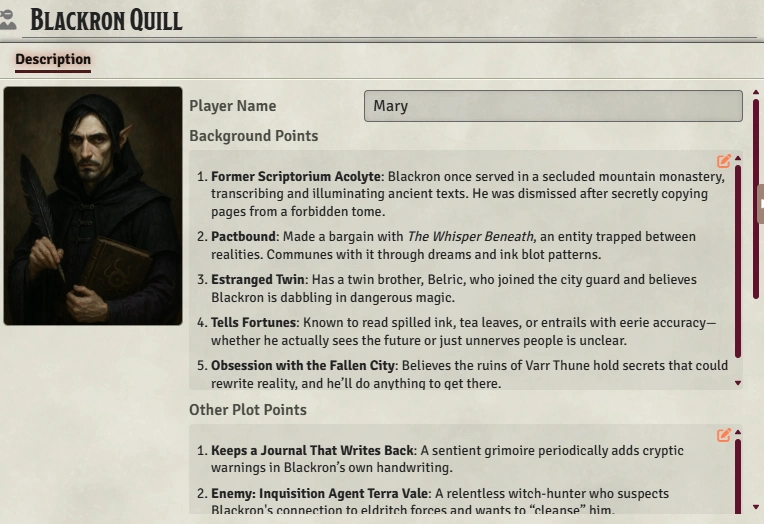
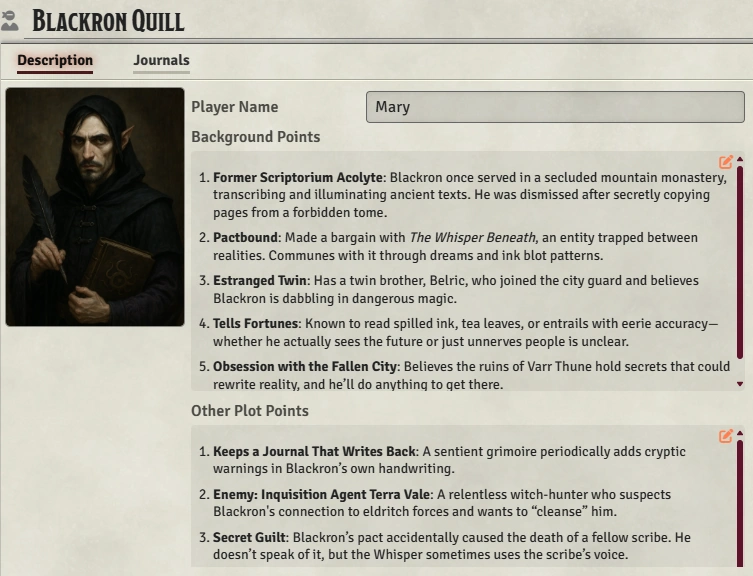
strong start and other docs update

Changed region(s): [[0.0, 0.0, 1.0, 1.0], [0.9163, 0.7328, 1.0, 1.0], [0.1222, 0.3969, 0.1527, 0.4275]]

diff --git a/docs/.vitepress/config.ts b/docs/.vitepress/config.ts
@@ -75,6 +75,7 @@ export default defineConfig({
           ]},
           { text: 'Campaign Management', link: '/reference/campaign-mgt/', items: [
             { text: 'Campaigns', link: '/reference/campaign-mgt/content/campaign/' },
+            { text: 'PCs', link: '/reference/campaign-mgt/content/pc' },
             { text: 'Sessions', link: '/reference/campaign-mgt/content/session/' },
             { text: 'To-do List', link: '/reference/campaign-mgt/content/campaign/todos' },
           ] },

diff --git a/src/components/ContentTab/SettingContent.vue b/src/components/ContentTab/SettingContent.vue
@@ -133,7 +133,7 @@
   const name = ref<string>('');
 
   const contentRef = ref<HTMLElement | null>(null);
-  const icon =  getTabTypeIcon(WindowTabType.Campaign);
+  const icon =  getTabTypeIcon(WindowTabType.Setting);
   const showConfigureNamesDialog = ref<boolean>(false);
 
   ////////////////////////////////

diff --git a/docs/reference/navigation/editors.md b/docs/reference/navigation/editors.md
@@ -1,0 +1,36 @@
+---
+title: Editors
+prev: 
+  text: 'Directory Sidebar'
+  link: './sidebar'
+next: 
+  text: 'Main Content Display'
+  link: './main-display'
+---
+
+# Editors
+
+Click the orange pencil to start editing, and the save button (or Control-S) to save.
+
+Every Editor in Campaign Builder has the same basic functionality, which includes the normal formatting options as other Foundry editors, as well as some additional capabilities:
+
+## Autocomplete Mentions {#autocomplete-mentions}
+There is a separate module - [Autocomplete Mentions](https://github.com/dovrosenberg/fvtt-autocomplete-mentions) that is not needed but can be highly useful for campaign and world building.  It enables you to type '@' and easily search for the characters, locations, and organizations in your campaign and then insert them as a link in any editor field.  
+
+This can be doubly helpful in Campaign Builder because of the [auto-suggest capabilities](#auto-suggest) of the Campaign Builder editors.
+
+## Drag and Drop
+
+You can drag any [^Entry], [^Campaign], or [^Session], from the [Setting Directory] into the description editor, and it will insert a UUID indicator that when you save will be displayed as a clickable link that will open that Entry *(hold 'Control' while clicking to open it in a new tab)*.  Similarly, you can drag any Foundry document (ex. Actors, Journal Entries, etc.) into the description editor for a link to that document (the same way you can in other Foundry editors).
+
+## Automatic references
+
+When you save an editor, if you have exactly (but case insensitive) used the name of any [^Entry], [^PC], or [^Session], it will automatically turn it into a reference link.  
+
+> [!Note]
+> If you have more than one Entry, PC, and/or Session with the same name, it will not create a link, so that it's not linking to the wrong one.  Instead, use Drag & Drop or Autocomplete Mentions to insert a reference to the one you want.  This is likely to be a very rare situation, though.
+
+
+## Auto-suggest relationships
+
+If you insert a reference to an [^Entry] into the description of another, you will [automatically be asked](/reference/world-building/content/entry/description#managing-relationships) if you'd like to create a relationship.  This allows you to connect two entries or to mention an entry in a session note (which will then also add it to the campaign [To-do list](/reference/campaign-mgt/content/campaign/todos)) with just a couple keystrokes.

diff --git a/docs/reference/world-building/content/setting/index.md b/docs/reference/world-building/content/setting/index.md
@@ -17,29 +17,7 @@ The Setting header has just two parts:
   1. Name - This is where you edit the Setting's name.
   2. Generate Button - This gives access to Setting-specific configuration, specifically [Name Styles](./namestyles).
 
-## Setting description tab
-The description tab has four components:
-1. Image
-2. Genre
-3. Setting Feeling
-4. Description text area
-
-### Image
-See [Image] documentation.
-
-### Genre
-The Genre is where you capture the high-level type of your Setting.  Typical examples would be "Fantasy" or "Sci-Fi".  These are used for [Advanced Features] to ensure generated content fits your theme.
-
-### Setting Feeling
-Similar to Genre, this field allows you to give a more detailed description.  For example, "A dark and rugged world where only the strong survive" or "A light, playful world with humor around every corner". This description is used for [Advanced Features] to further refine generated content.
-
-### Description text area
-This is where you can provide a detailed description of the Setting and high-level lore.  What's the history? What does the pantheon look like? How many explored planetary systems are there? 
-
-Click the orange pencil to start editing, and the save button (or Control-S) to save.
-
-You can drag any Entry from the [Setting Directory] into the description editor, and it will insert a UUID indicator that when you save will be displayed as a clickable link that will open that Entry (hold 'Control' while clicking to open it in a new tab).
-
-It is highly suggested that you check out the [Autocomplete Mentions](/reference/navigation/main-display#autocomplete-mentions) module, which allows you to rapidly reference Foundry documents and Campaign Builder Entries/Sessions/etc. while typing in the editor.  
-
-In the future, this description may be made available to players as starting background, but for now it's just for GM use (along with everything else in the module, just to be clear).
+## Tabs
+There are two tabs on the Setting details screen:
+  1. [Description tab](./description) - overview information about the Setting
+  2. [Journals tab](./journals) - a place to track Foundry journal entries that relate to the Setting.  Good for tracking extra images or any other content that you want to keep track of and/or share with the player(s)

diff --git a/docs/reference/campaign-mgt/content/pc/index.md b/docs/reference/campaign-mgt/content/pc/index.md
@@ -1,29 +1,28 @@
 ---
 title: PC Details
 prev: 
-  text: 'Session Details'
-  link: '/reference/campaign-mgt/content/session'
+  text: 
+  link: 
 next: 
-  text: 'Advanced Features & Backend'
-  link: '/reference/backend'
+  text: 'PC Description Tab'
+  link: '/reference/campaign-mgt/content/pc/description'
 ---
-# PC Details
+# PC Details 
 
 ![PC content](/assets/images/pc-content.webp)
 
 The PC window lets you manage a player character.
 
-## PC Actors
+## PC Actor
 
 To be useful, a PC needs to be associated with an actor.  You do this by dragging a Foundry actor (ex. from the sidebar) and dropping it on the image area.
 
 You can change the actor by dragging a new one onto the image area.
 
-The name and image of the PC are determined from the actor and updates to those should show on the PC.
+> [!Note]
+> The name and image of the PC are determined from the actor and updates to those should show on the PC.  You cannot independently change the name/image of the PC.
 
-## Description
-The description section has the following fields:
-* Name
-* Background Points - good for keeping track of key background on the character you want to review before each session (as opposed to more detailed bios that may exist on the character sheet)
-* Other Plot Points - this is where you can track background items that will make for good plot hooks (ex. an enemy)
-* Desired Magic Items - keep a list of ideas for future magic items you might want to give the character
+## Tabs
+PCs have the following tabs where you can manage their details:
+* [Description](./description) - the key info about the PC
+* [Journals](/journals) - a place to track Foundry journal entries that relate to the PC.  Good for tracking extra images or any other content that you want to keep track of and/or share with the player(s)

diff --git a/docs/reference/campaign-mgt/content/session/notes.md b/docs/reference/campaign-mgt/content/session/notes.md
@@ -14,7 +14,8 @@ The notes tab has four main components:
 1. Image
 2. Session number
 3. Session date
-4. Session notes area
+4. Strong start
+5. Session notes area
 
 ## Image
 See [Image] documentation.
@@ -30,12 +31,12 @@ The session date is the date of the session.  It is only used for your reference
 ## Strong start { #start }
 This is where you enter your "Strong Start", fleshing out how you intend to begin the session.  This text is only used for your reference.
 
+See [Editors] for more info on capabilities of Editor boxes.
+
 ## Session notes area
-This is where you enter the Session notes. Click the orange pencil to start editing, and the save button (or Control-S) to save.
+This is where you enter the Session notes. 
 
-You can drag any Entry from the [Setting Directory] into the notes editor and it will insert a UUID indicator that when you save will be displayed as a clickable link that will open that Entry (hold 'Control' while clicking to open it in a new tab).
-
-It is highly suggested that you check out the [Autocomplete Mentions](/reference/navigation/main-display#autocomplete-mentions) module, which allows you to rapidly reference Foundry documents and Campaign Builder Entries/Sessions/etc. while typing in the editor.  
+See [Editors] for more info on capabilities of Editor boxes.
 
 When you save the notes while in [^Play Mode], it will check to see if you've added any references to Entries.  If you have, those Entries will automatically be added to the [To-do list](/reference/campaign-mgt/content/campaign/todos) for the Campaign.  
 

diff --git a/docs/reference/navigation/main-display.md b/docs/reference/navigation/main-display.md
@@ -1,8 +1,8 @@
 ---
 title: Main Display
 prev: 
-  text: 'Directory Sidebar'
-  link: './sidebar'
+  text: 'Editors'
+  link: './editors'
 next: 
   text: 'Main Tabs'
   link: './tabs'
@@ -19,8 +19,8 @@ There are 4 types of content you can see, and each has its own set of functional
 - [Sessions](/reference/campaign-mgt/content/session/)
 
 
-## Autocomplete Mentions {#autocomplete-mentions}
-There is a separate module - [Autocomplete Mentions](https://github.com/dovrosenberg/fvtt-autocomplete-mentions) that is not needed but can be highly useful for campaign and world building.  It enables you to type '@' and easily search for the characters, locations, and organizations in your campaign and then insert them as a link in any editor field.  This can be doubly helpful, because (for example) if you insert one of these links in the description of an [^Entry], you will [automatically be asked](/reference/world-building/content/entry/description#managing-relationships) if you'd like to create a relationship.  So this allows you to connect two entries or mention an entry in a session note (which will then also add it to the campaign [To-do list](/reference/campaign-mgt/content/campaign/todos)) with just a couple keystrokes.
+## Editors
+Throughout the application, there are fields that are displayed as a large Foundry editor box.  In addition to Foundry capabilities (ex. formatting), Campaign Builder editors have additional capabilities. See [Editors] for more information.
 
 ## Images {#images}
 

diff --git a/docs/reference/campaign-mgt/content/campaign/description.md b/docs/reference/campaign-mgt/content/campaign/description.md
@@ -4,8 +4,8 @@ prev:
   text: 'Campaign Details'
   link: '/reference/campaign-mgt/content/campaign'
 next: 
-  text: 'Campaign PCs Tab'
-  link: '/reference/campaign-mgt/content/campaign/pcs'
+  text: 'Campaign Journals Tab'
+  link: '/reference/campaign-mgt/content/campaign/journals'
 ---
 # Campaign Description Tab
 ![Description tab](/assets/images/campaign-content.webp)
@@ -25,11 +25,7 @@ A place where you can enter the main description of your campaign. This might in
 - Important background information
 - Current campaign status
 
-Click the orange pencil to start editing, and the save button (or Control-S) to save.
-
-You can drag any [^Entry] from the [Setting Directory] into the description editor, and it will insert a UUID indicator that when you save will be displayed as a clickable link that will open that Entry (hold 'Control' while clicking to open it in a new tab).
-
-It is highly suggested that you check out the [Autocomplete Mentions](/reference/navigation/main-display#autocomplete-mentions) module, which allows you to rapidly reference Foundry documents and Campaign Builder Entries/Sessions/etc. while typing in the editor.  
+See [Editors] for more info on capabilities of Editor boxes.
 
 ## House Rules
 A separate field specifically for documenting any house rules or modifications you're using in this campaign. This keeps rule variations clearly separated from the main campaign description.  

diff --git a/docs/reference/world-building/content/setting/description.md b/docs/reference/world-building/content/setting/description.md
@@ -1,0 +1,33 @@
+---
+title: Setting Description Tab
+prev: 
+  text: 'Name styles'
+  link: './namestyles'
+next: 
+  text: 'Setting journals tab'
+  link: './journals'
+---
+# Setting Description Tab
+![Setting content](/assets/images/setting-content.webp)
+
+The description tab has four main components:
+1. Image
+2. Genre
+3. Setting Feeling
+4. Description text area
+
+## Image
+See [Image] documentation.
+
+## Genre
+The Genre is where you capture the high-level type of your Setting.  Typical examples would be "Fantasy" or "Sci-Fi".  These are used for [Advanced Features] to ensure generated content fits your theme.
+
+## Setting Feeling
+Similar to Genre, this field allows you to give a more detailed description.  For example, "A dark and rugged world where only the strong survive" or "A light, playful world with humor around every corner". This description is used for [Advanced Features] to further refine generated content.
+
+## Description text area
+This is where you can provide a detailed description of the Setting and high-level lore.  What's the history? What does the pantheon look like? How many explored planetary systems are there? 
+
+See [Editors] for more info on capabilities of Editor boxes.
+
+In the future, this description may be made available to players as starting background, but for now it's just for GM use (along with everything else in the module, just to be clear).

diff --git a/docs/reference/campaign-mgt/content/campaign/journals.md b/docs/reference/campaign-mgt/content/campaign/journals.md
@@ -1,0 +1,26 @@
+---
+title: Campaign Journals Tab
+prev: 
+  text: 'Campaign description tab'
+  link: '/reference/campaign-mgt/content/campaign/description'
+next: 
+  text: 'Campaign PCs Tab'
+  link: '/reference/campaign-mgt/content/campaign/pcs'
+---
+# Entry Journals Tab
+
+![Entry Journals Tab](/assets/images/entry-journals-tab.webp)
+
+The Journals tab allows you to associate any number of Foundry journal entries with the Entry.  This is useful for tracking extra images or any other content that you want to keep track of and/or share with the player(s).
+
+> [!NOTE]
+> Deleting a journal entry in Foundry that is attached to an Entry will automatically and safely remove it from the Entry.
+
+#### Adding Journals
+Click "Add journal" to select a Foundry journal entry or a single page from a journal entry and connect it to the Entry.
+
+You can also drag and drop Foundry journal entries and/or pages from Foundry VTT onto the box at the top to make the connection.  
+
+#### The journal list
+For each journal entry, you can see it's name and whether it is in the current Foundry world or inside a compendium.  If it is a page, you'll also see the name of the journal entry it belongs to.  You can click the journal entry and/or page name to open them in Foundry VTT.  
+

diff --git a/docs/reference/world-building/content/entry/journals.md b/docs/reference/world-building/content/entry/journals.md
@@ -1,0 +1,26 @@
+---
+title: Entry Journals Tab
+prev: 
+  text: 'Generate Button'
+  link: '/reference/world-building/content/entry/generate'
+next: 
+  text: 'Entry Relationships Tab'
+  link: '/reference/world-building/content/entry/relationships'
+---
+# Entry Journals Tab
+
+![Entry Journals Tab](/assets/images/entry-journals-tab.webp)
+
+The Journals tab allows you to associate any number of Foundry journal entries with the Entry.  This is useful for tracking extra images or any other content that you want to keep track of and/or share with the player(s).
+
+> [!NOTE]
+> Deleting a journal entry in Foundry that is attached to an Entry will automatically and safely remove it from the Entry.
+
+#### Adding Journals
+Click "Add journal" to select a Foundry journal entry or a single page from a journal entry and connect it to the Entry.
+
+You can also drag and drop Foundry journal entries and/or pages from Foundry VTT onto the box at the top to make the connection.  
+
+#### The journal list
+For each journal entry, you can see it's name and whether it is in the current Foundry world or inside a compendium.  If it is a page, you'll also see the name of the journal entry it belongs to.  You can click the journal entry and/or page name to open them in Foundry VTT.  
+

diff --git a/docs/reference/world-building/content/setting/journals.md b/docs/reference/world-building/content/setting/journals.md
@@ -1,0 +1,26 @@
+---
+title: Entry Journals Tab
+prev: 
+  text: 'Entry description tab'
+  link: '/reference/world-building/content/entry/description'
+next: 
+  text: 'Entry details'
+  link: '/reference/world-building/content/entry'
+---
+# Entry Journals Tab
+
+![Entry Journals Tab](/assets/images/setting-journals-tab.webp)
+
+The Journals tab allows you to associate any number of Foundry journal entries with the Entry.  This is useful for tracking extra images or any other content that you want to keep track of and/or share with the player(s).
+
+> [!NOTE]
+> Deleting a journal entry in Foundry that is attached to an Entry will automatically and safely remove it from the Entry.
+
+#### Adding Journals
+Click "Add journal" to select a Foundry journal entry or a single page from a journal entry and connect it to the Entry.
+
+You can also drag and drop Foundry journal entries and/or pages from Foundry VTT onto the box at the top to make the connection.  
+
+#### The journal list
+For each journal entry, you can see it's name and whether it is in the current Foundry world or inside a compendium.  If it is a page, you'll also see the name of the journal entry it belongs to.  You can click the journal entry and/or page name to open them in Foundry VTT.  
+
